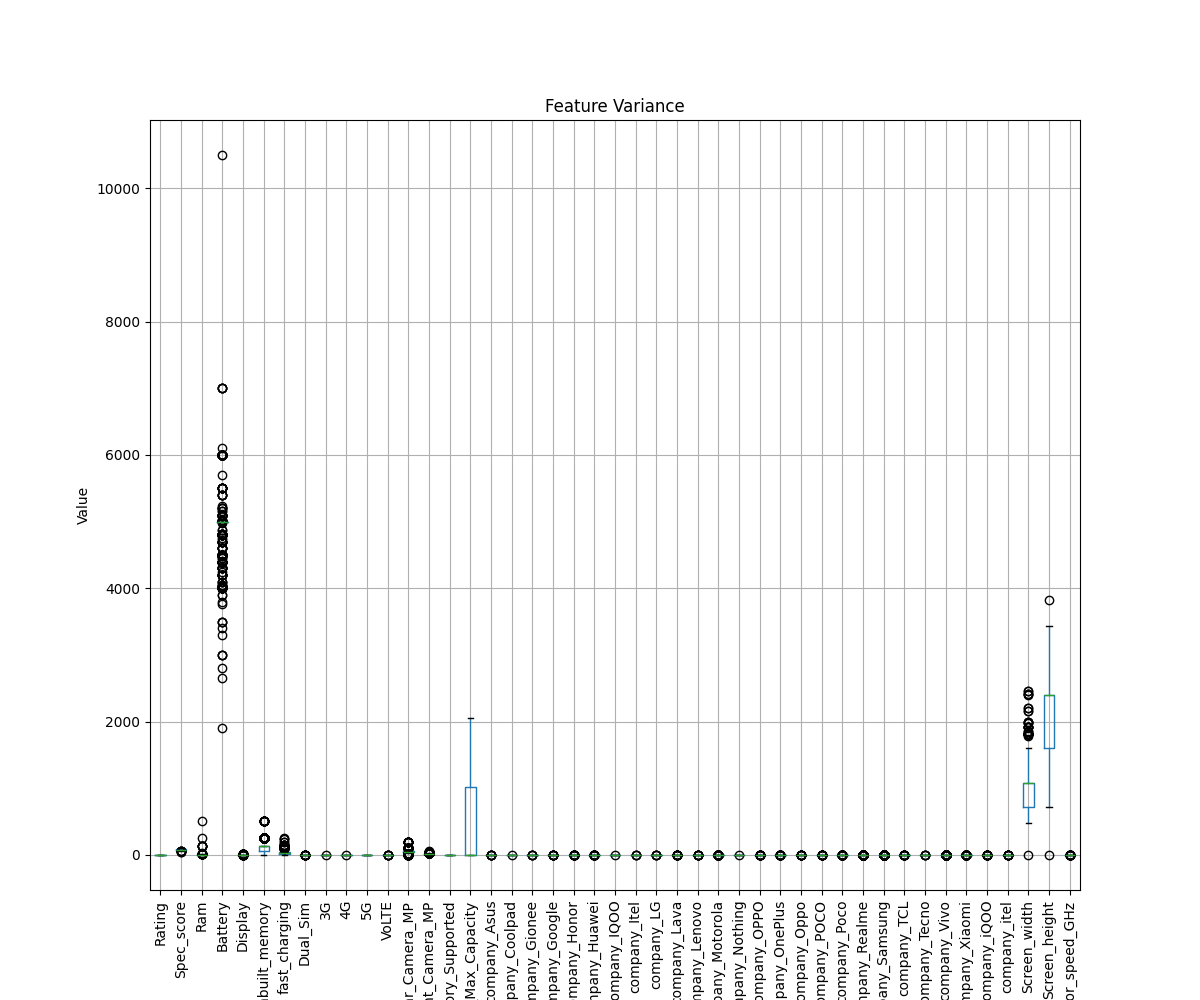
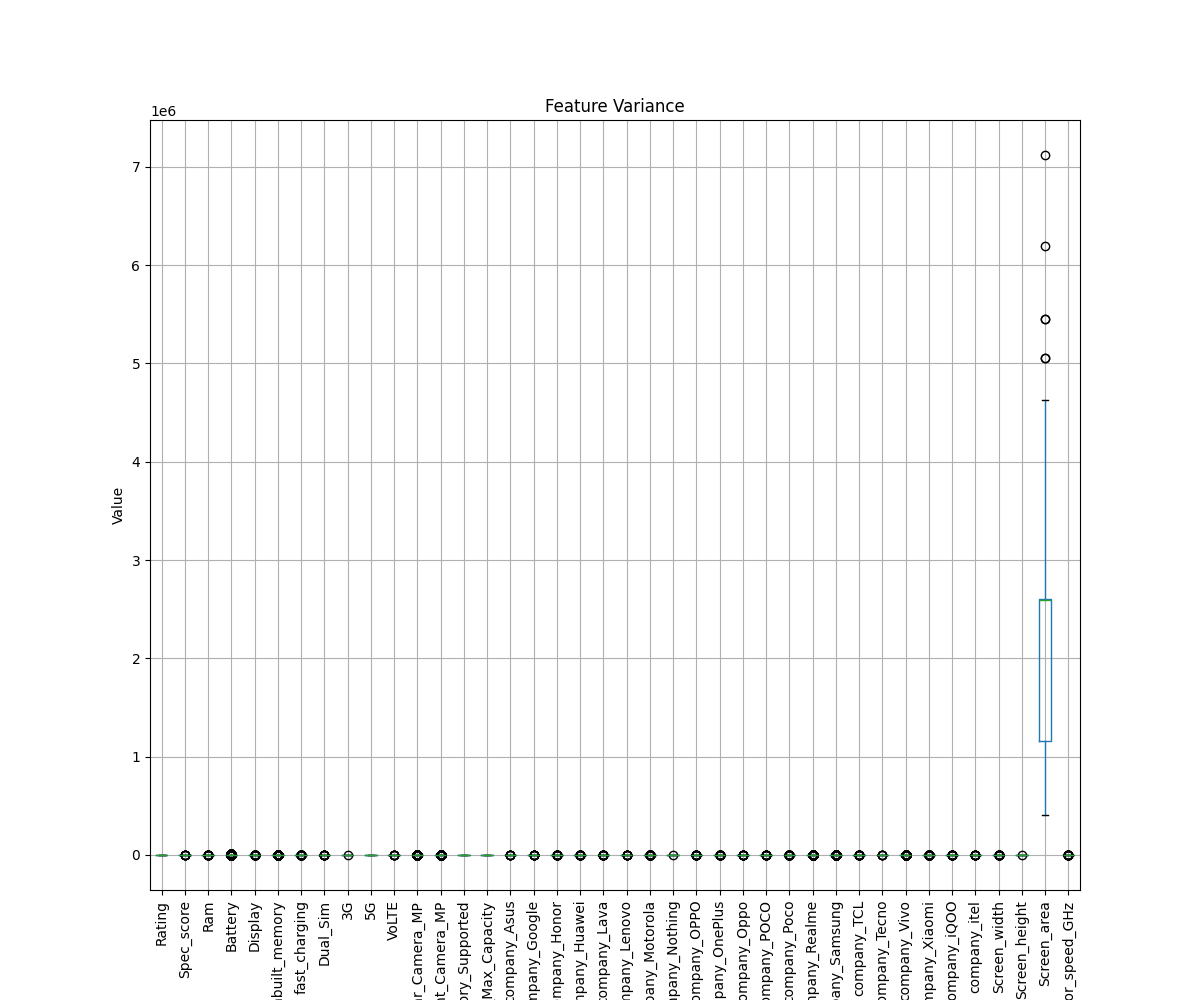
modeled

diff --git a/2.py b/2.py
@@ -9,7 +9,10 @@ import seaborn as sns
 from sklearn.feature_selection import RFE
 from sklearn.model_selection import train_test_split, cross_val_score
 from sklearn.preprocessing import RobustScaler, PolynomialFeatures
-
+from statsmodels.stats.outliers_influence import variance_inflation_factor
+import scipy.cluster.hierarchy as sch
+import seaborn as sns
+import matplotlib.pyplot as plt
 def extract_camera_info(camera_str):
     rear_cameras = re.findall(r'(\d+) MP', camera_str.split('&')[0])
     front_camera = re.search(r'(\d+) MP Front', camera_str)
@@ -42,6 +45,7 @@ class DataSet:
         self.df = pd.read_csv('./data/data.csv')
         self.feature_vector = self.setup_features(self.df)
 
+    #欠損値の処理
     def setup_features(self, df):
         # 'No_of_sim' カラムから各技術のサポート情報を抽出
         df['Dual_Sim'] = df['No_of_sim'].apply(lambda x: 1 if 'Dual Sim' in x else 0)
@@ -79,10 +83,21 @@ class DataSet:
         # 'fast_charging' をバイナリ変換
         df['fast_charging'] = df['fast_charging'].str.extract('(\d+)').fillna(0).astype(int)
         
-        # 'Screen_resolution' から幅と高さを抽出し、NaN を 0 で埋める
-        df['Screen_width'] = df['Screen_resolution'].str.extract('(\d+) x \d+').fillna(0).astype(int)
-        df['Screen_height'] = df['Screen_resolution'].str.extract('\d+ x (\d+)').fillna(0).astype(int)
-        # 元の 'Screen_resolution' カラムを削除
+        # 'Screen_resolution' から幅と高さを抽出し、
+        #　新しいcolumnとして幅と高さの積を画面面積として追加
+        # 'Screen_resolution' 列から幅と高さを抽出する関数を定義
+        def extract_dimensions(resolution):
+            match = re.search(r'(\d+)\s*x\s*(\d+)', resolution)
+            if match:
+                width, height = match.groups()
+                return int(width), int(height)
+            else:
+                return None,  None      # 幅と高さを新しい列に追加
+        df[['Screen_width', 'Screen_height']] = df['Screen_resolution'].fillna("").apply(lambda x: pd.Series(extract_dimensions(x)))
+
+        # 幅と高さの積を計算して 'Screen_area' 列を追加
+        df['Screen_area'] = df['Screen_width'] * df['Screen_height'] 
+        # 元の 'Screen_resolution' 列を削除
         df = df.drop(columns=['Screen_resolution'])
         
         # 'Processor' からクロック速度を抽出し、NaN を 0 で埋める
@@ -105,6 +120,7 @@ class DataSet:
         
         # 'Price' カラムを数値に変換
         df['Price'] = df['Price'].str.replace(',', '').str.extract('(\d+\.?\d*)').astype(float)
+        
         return df
 
 def eval_score(y_test, y_pred):
@@ -114,7 +130,7 @@ def eval_score(y_test, y_pred):
 
 def train(df):
     # 特徴量とターゲットの分割
-    X = df.drop(columns=['Price', 'Unnamed: 0', 'Name', 'Android_version', 'Processor_name'])
+    X = df.drop(columns=['Price'])
     y = df['Price']
 
     # データのトレーニングセットとテストセットへの分割
@@ -127,22 +143,53 @@ def train(df):
     # テストセットで予測
     y_pred = model.predict(X_test)
     
-    # モデルの評価
-    mse, r2 = eval_score(y_test, y_pred)
-    print(f'Mean Squared Error: {mse}')
-    print(f'R^2 Score: {r2}')
+    return y_test, y_pred, model
 
 
-    
-    
+a = DataSet()
+a.feature_vector.info()
+fv = a.feature_vector
+fv.drop(columns=['Unnamed: 0', 'Name', 'Android_version', 'Processor_name'], inplace=True)
+fv.columns
+
+# 各列の欠損値の数と割合をサマライズ
+nan_summary = fv.isna().sum().to_frame('NaN Count')
+nan_summary['NaN Percentage'] = (fv.isna().mean() * 100).to_frame('NaN Percentage')
+
+# NaNが含まれる列のみ表示
+nan_summary = nan_summary[nan_summary['NaN Count'] > 0]
+
+print(nan_summary)
+# 欠損値を含む行を削除
+fv = fv.dropna()
+
+fv = fv.drop(columns=["4G"])
+drop_company = ["company_Coolpad","company_IQOO","company_Itel","company_Gionee" , "company_LG"]
+fv =fv.drop(columns=drop_company)
+
+X = fv.drop(columns=['Price'])
+y = fv['Price']
+y_test, y_pred, model = train(fv)
+X_train, X_test, y_train, y_test = train_test_split(X, y, test_size=0.2, random_state=42)
+eval_score( y_test, y_pred)
 
 if __name__ == "__main__":
+    #0.805061556872748
     data = DataSet()
     df = data.feature_vector
     
     # 欠損値を持つ行を削除
     df = df.dropna()
+    # 分位数の計算（PRICE列の95%分位数を取得）
+    price_threshold = fv['Price'].quantile(0.95)
 
+    # 外れ値の除外（PRICE列が95%分位数を超えるデータを除外）
+    fv = fv[fv['Price'] <= price_threshold]
+
+    #意味のない列を削除
+    df = df.drop(columns=["4G"])
+    drop_company = ["company_Coolpad","company_IQOO","company_Itel","company_Gionee" , "company_LG"]
+    df = df.drop(columns=drop_company)
     # 特徴量とターゲットの分割
     X = df.drop(columns=['Price', 'Unnamed: 0', 'Name', 'Android_version', 'Processor_name'])
     y = df['Price']
@@ -159,8 +206,20 @@ if __name__ == "__main__":
     
     # モデルの評価
     mse, r2 = eval_score(y_test, y_pred)
-    print(f'Mean Squared Error: {mse}')
-    print(f'R^2 Score: {r2}')
+
+    # 訓練データのスコア
+    train_score = model.score(X_train, y_train)
+
+    # テストデータのスコア
+    test_score = model.score(X_test, y_test)
+
+    print(f'Train R2 score: {train_score}')
+    print(f'Test R2 score: {test_score}')
+
+
+    cv_scores = cross_val_score(model, X, y, cv=5)
+    print(f'Cross-validation scores: {cv_scores}')
+    print(f'Mean cross-validation score: {cv_scores.mean()}')
 
     # 特徴量の重要性を棒グラフで表示
     # 特徴量の重要性を確認
@@ -179,7 +238,7 @@ if __name__ == "__main__":
     plt.ylabel('Coefficient', fontsize=15)
 
     # Save the figure in high quality
-    plt.savefig('data/feature_importance.png', dpi=300)
+    plt.savefig('./out/feature_importance.png', dpi=300)
 
     # Show the plot
     #plt.show()
@@ -191,8 +250,55 @@ if __name__ == "__main__":
     plt.ylabel('Value')
     plt.savefig("./out/feature_variance.png")
     #plt.show()
-    """
-    Mean Squared Error: 313939338.06325233
-    R^2 Score: 0.7430100339185934
-    """
     
+    residuals = y_test - y_pred
+    # 残差プロットの作成
+    plt.figure(figsize=(10, 6))
+    sns.residplot(x=y_pred, y=residuals, lowess=True, line_kws={'color': 'red', 'lw': 2})
+    plt.xlabel('Predicted Values')
+    plt.ylabel('Residuals')
+    plt.title('Residual Plot')
+    plt.savefig("./out/residual_plot.png")
+    plt.show()
+    
+    # 予測値と実測値の散布図を作成
+    plt.figure(figsize=(10, 6))
+    plt.scatter(y_test, y_pred, alpha=0.5)
+    plt.plot([y_test.min(), y_test.max()], [y_test.min(), y_test.max()], 'r--', lw=2)  # y=x の直線
+    plt.xlabel('Actual Prices')
+    plt.ylabel('Predicted Prices')
+    plt.title('Actual vs Predicted Prices')
+    plt.savefig("./out/actual_vs_predicted_prices.png")
+    plt.show()
+
+    # 相関行列の計算
+    corr = fv.corr()
+
+    # 相関行列の距離行列を計算
+    dist = 1 - corr
+
+    # 階層型クラスタリングを実行
+    linkage = sch.linkage(dist, method='ward')
+
+    # デンドログラムの表示
+    plt.figure(figsize=(10, 7))
+    sch.dendrogram(linkage, labels=corr.columns, leaf_rotation=90)
+    plt.title('Dendrogram')
+    plt.xlabel('Features')
+    plt.ylabel('Euclidean distances')
+    plt.savefig("./out/dendrogram.png")
+    plt.show()
+
+    # クラスタリング結果に基づいて特徴量を並び替える
+    dendro = sch.dendrogram(linkage, labels=corr.columns, no_plot=True)
+    ordered_columns = dendro['ivl']
+
+    # 並び替えた相関行列のヒートマップを表示
+    plt.figure(figsize=(12, 10))
+    sns.heatmap(corr.loc[ordered_columns, ordered_columns], annot=True, cmap='coolwarm', linewidths=0.5, fmt=".2f", annot_kws={"size": 7}, cbar_kws={"shrink": .8})
+    plt.title('Clustered Correlation Matrix')
+    plt.savefig("./out/clustered_correlation_matrix.png")
+    plt.show()
+
+    print(f'Mean Squared Error: {mse}')
+    print(f'R^2 Score: {r2}')
